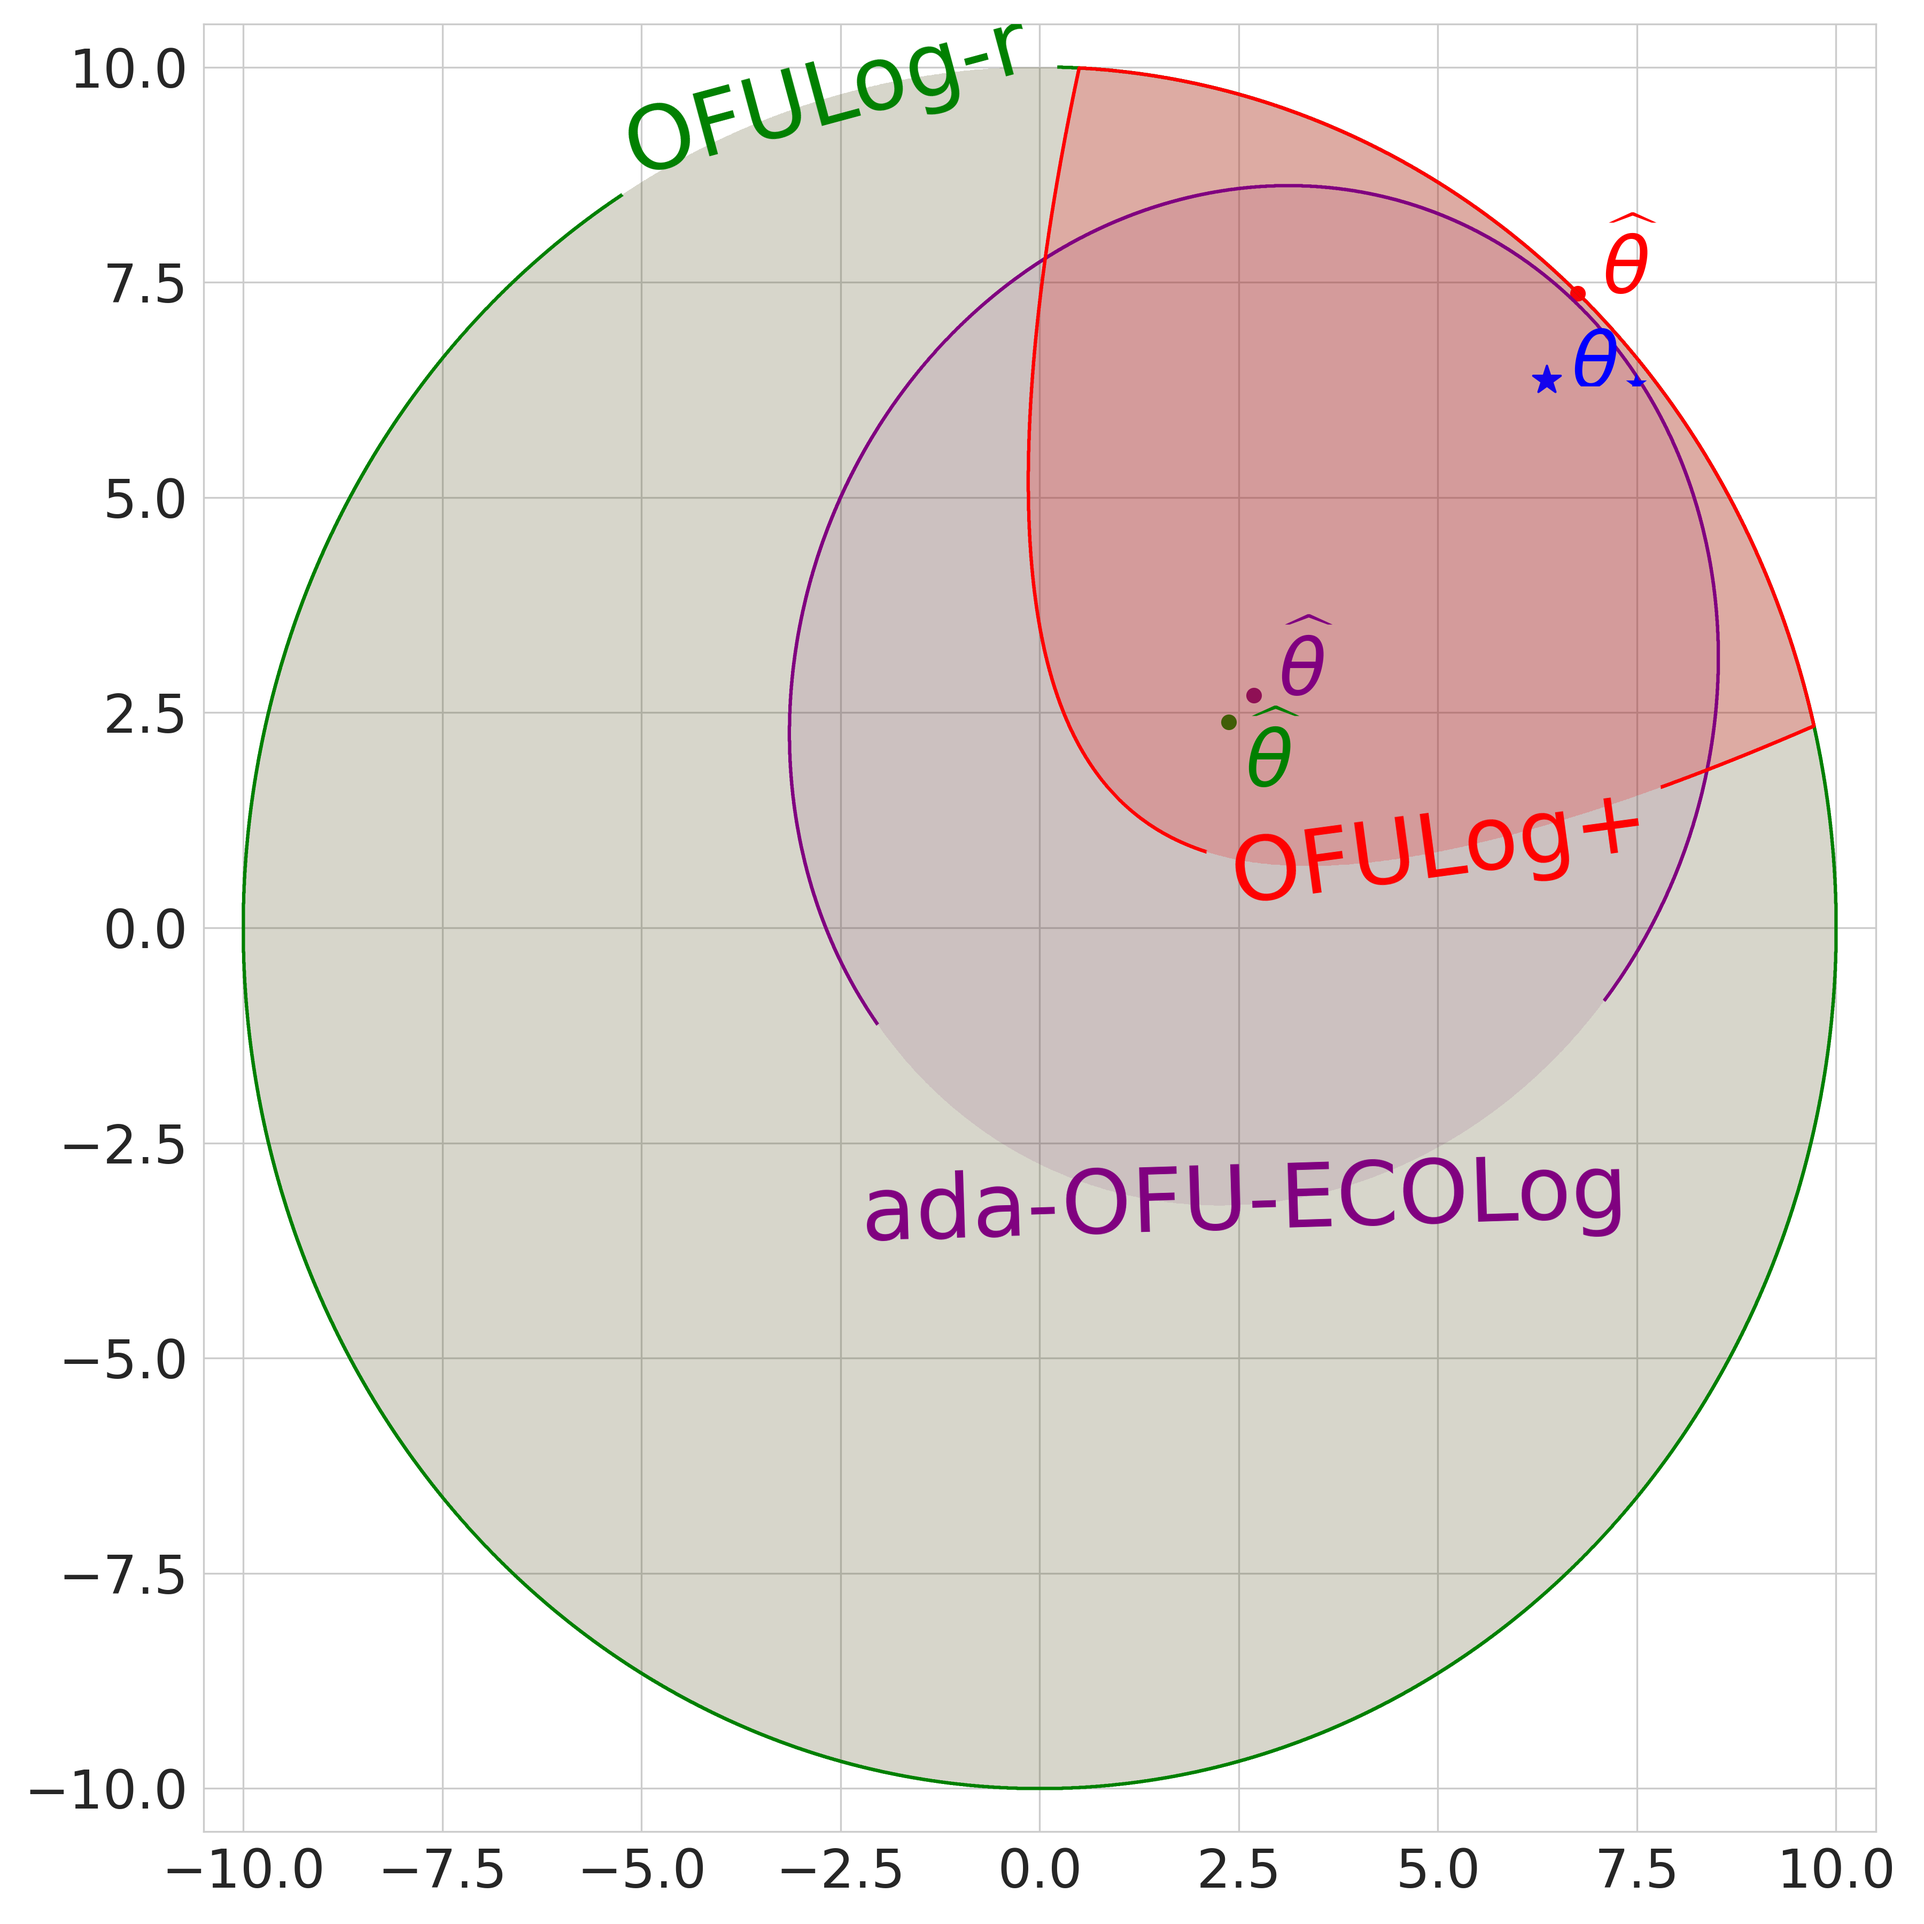
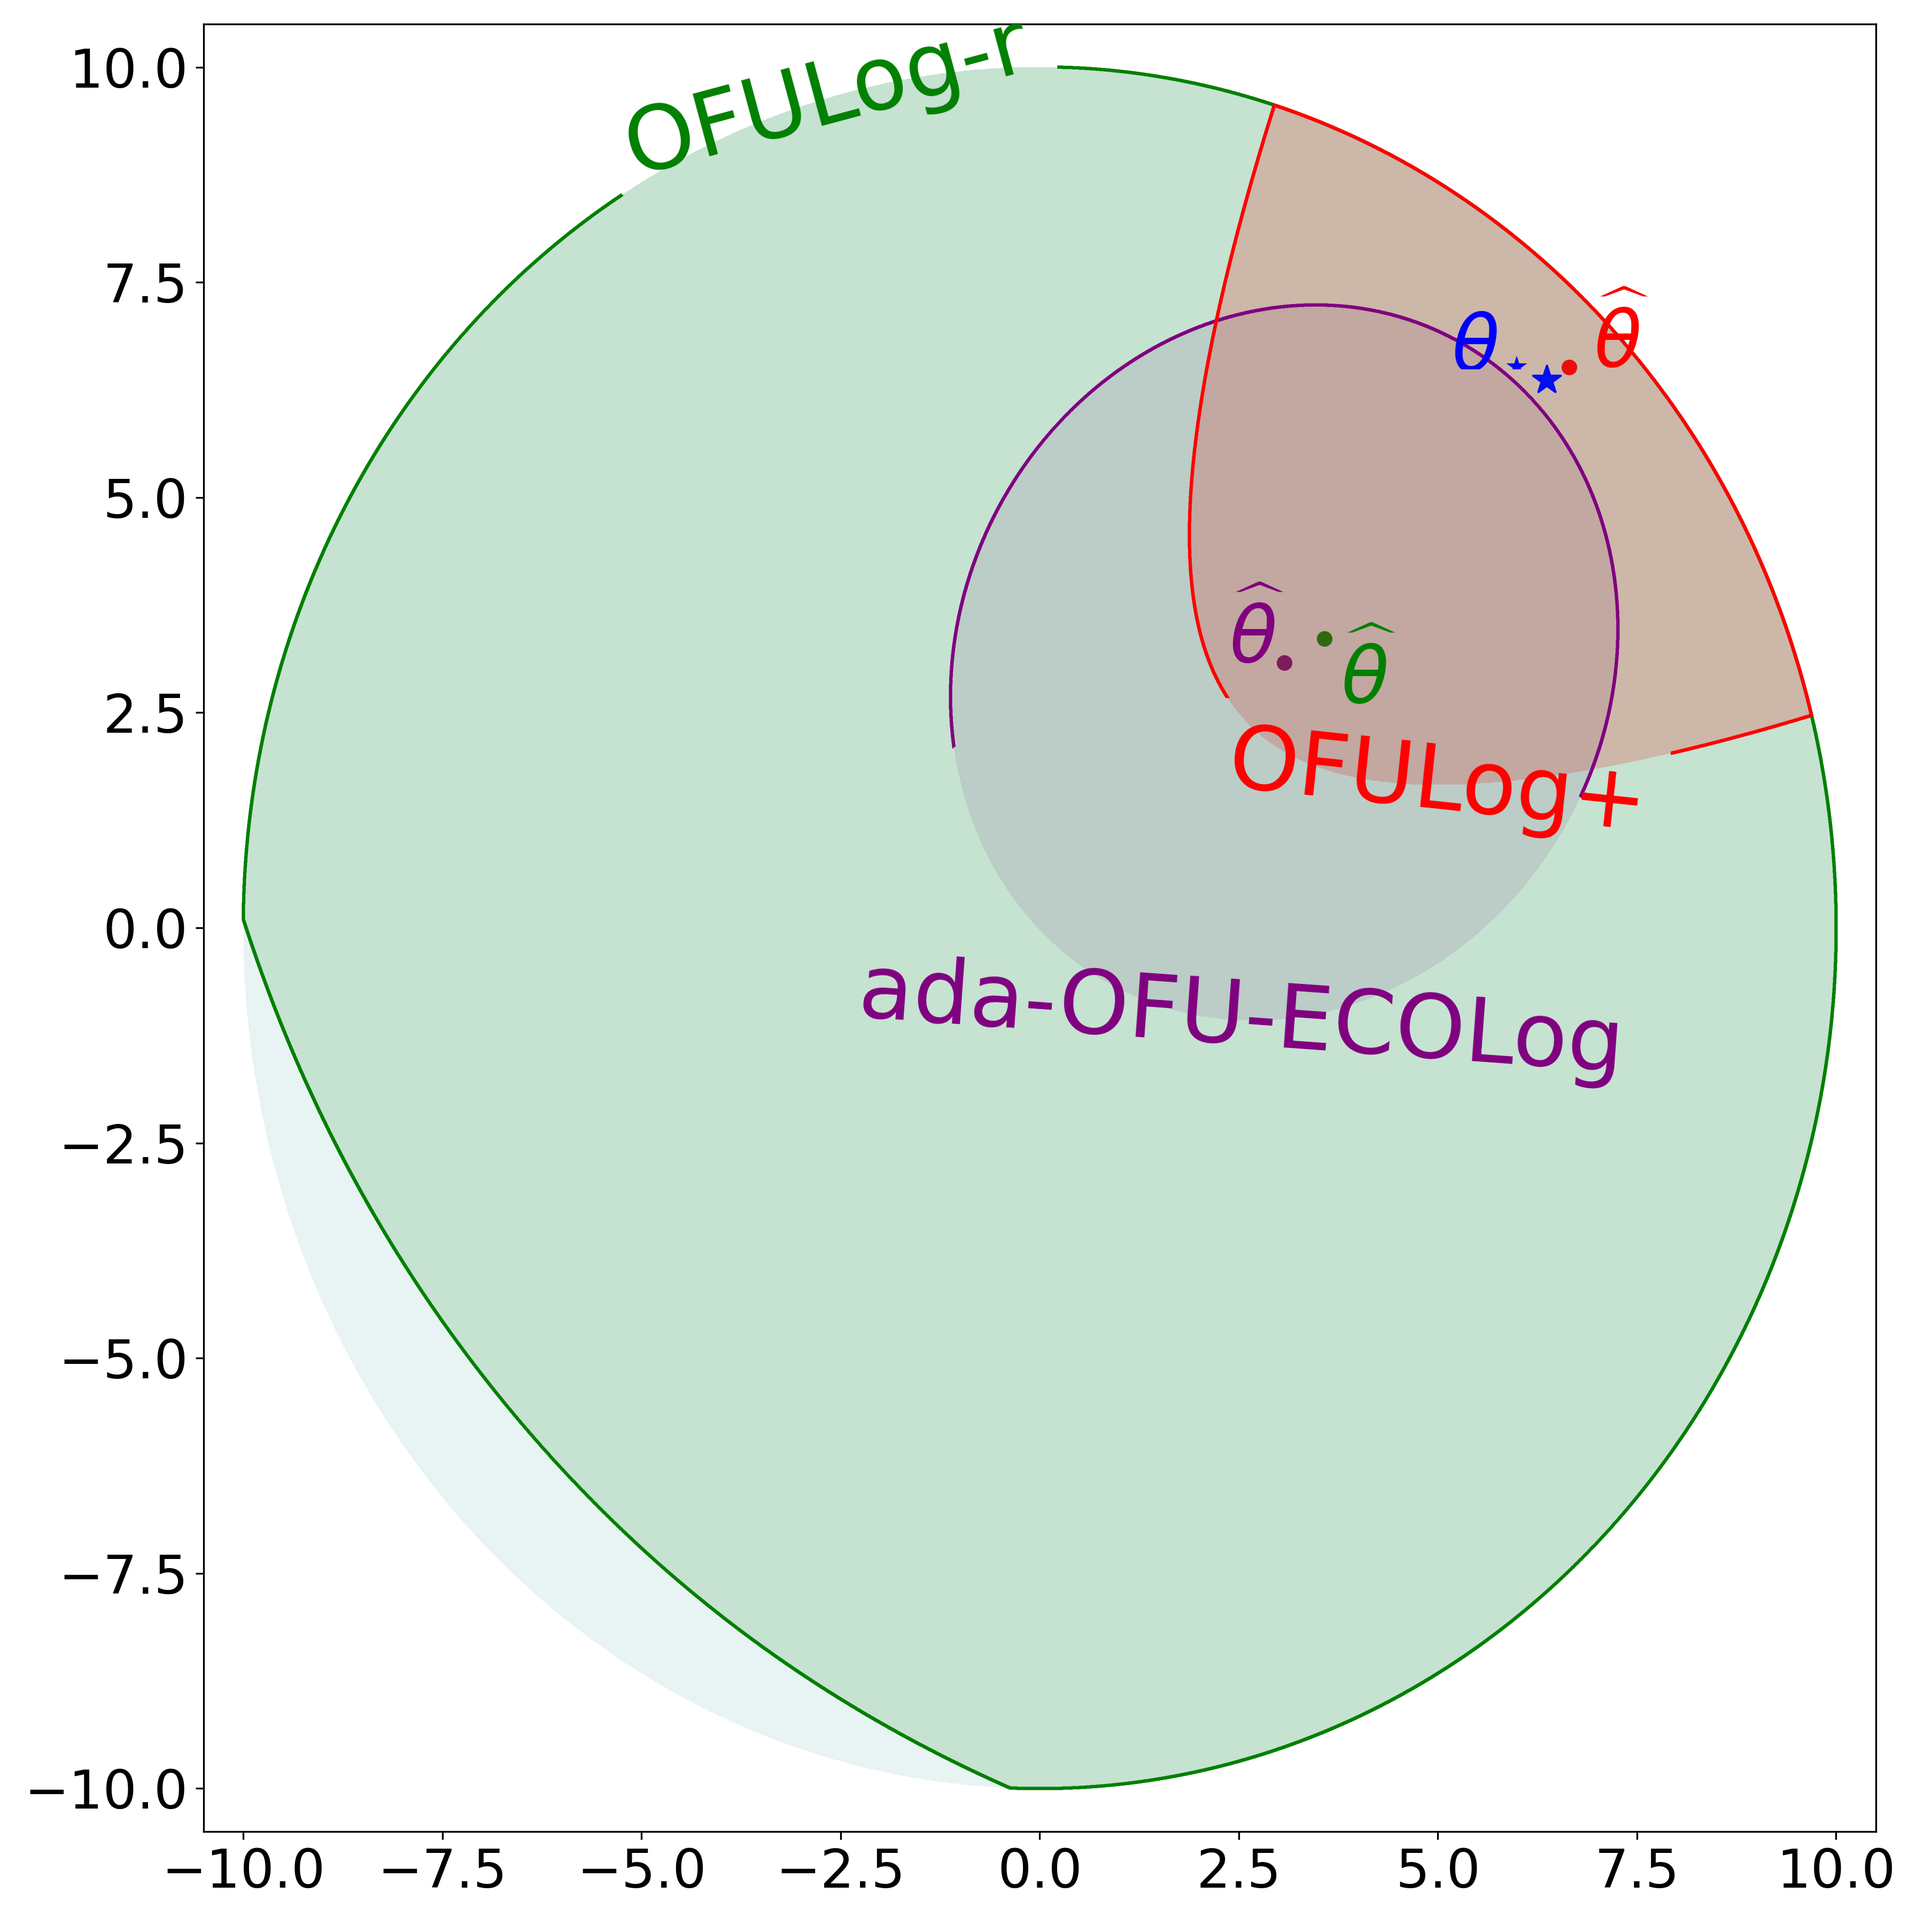
Update README

diff --git a/scripts/plot_confidence.py b/scripts/plot_confidence.py
@@ -1,21 +1,20 @@
 """
 By @nick-jhlee
 
-usage: plot_confidence.py [-h] [-d [D]] [-hz [HZ]] [-ast [AST]] [-pn [PN]]
+usage: plot_confidence.py [-h] [-ast [AST]] [-pn [PN]] [-Nconfidence [N]]
 
 Plot confidence sets for all algorithms
 
 optional arguments:
-  -h, --help  show this help message and exit
-  -ast [AST]  Dimension (default: tv_discrete)
-  -pn [PN]    Parameter norm (default: 10.0)
+  -h, --help          show this help message and exit
+  -ast [AST]          Dimension (default: tv_discrete)
+  -pn [PN]            Parameter norm (default: 10.0)
+  -Nconfidence [N]    Number of discretizations (per axis) for confidence set plot (default: 5000)
 """
 
 import argparse
 import matplotlib.pyplot as plt
 import numpy as np
-import os
-import json
 import seaborn as sns
 
 from logbexp.utils.utils import dsigmoid
@@ -31,12 +30,12 @@ args = parser.parse_args()
 param_norm = args.pn
 S = int(param_norm + 1)
 arm_set_type = args.ast
-N_confidence = args.Nconfidence
+N = args.Nconfidence
 
 
 # basic quantities
 theta_star = np.array([(S - 1) / np.sqrt(2), (S - 1) / np.sqrt(2)])
-interact_rng = np.linspace(-S - 0.5, S + 0.5, N_confidence)
+interact_rng = np.linspace(-S - 0.5, S + 0.5, N)
 x, y = np.meshgrid(interact_rng, interact_rng)
 
 fnames = ["adaECOLog.npz","OFULogr.npz", "OFULogPlus.npz"]
@@ -60,6 +59,7 @@ else:
 
 # plotting
 plt.figure(1, figsize=(12,12))
+# with sns.axes_style("whitegrid"):
 for i, fname in enumerate(fnames):
     fname = f"S={S}/{arm_set_type}/{fname}"
     with np.load(fname) as data:

diff --git a/scripts/plot_regret.py b/scripts/plot_regret.py
@@ -11,7 +11,7 @@ optional arguments:
   -d [D]      Dimension (default: 2)
   -hz [HZ]    Horizon length (default: 4000)
   -ast [AST]  Dimension (default: tv_discrete)
-  -pn [PN]    Parameter norm (default: 1.0)
+  -pn [PN]    Parameter norm (default: 10.0)
 """
 
 import argparse
@@ -28,7 +28,7 @@ parser = argparse.ArgumentParser(description='Plot regret curves, by default for
                                  formatter_class=argparse.ArgumentDefaultsHelpFormatter)
 parser.add_argument('-d', type=int, nargs='?', default=2, help='Dimension')
 parser.add_argument('-hz', type=int, nargs='?', default=4000, help='Horizon length)')
-parser.add_argument('-pn', type=float, nargs='?', default=1.0, help='Parameter norm')
+parser.add_argument('-pn', type=float, nargs='?', default=10.0, help='Parameter norm')
 parser.add_argument('-ast', type=str, nargs='?', default='tv_discrete', help='Arm set type. Must be either fixed_discrete, tv_discrete or ball')
 args = parser.parse_args()
 

diff --git a/README.md b/README.md
@@ -45,11 +45,11 @@ Experiments can be run for several Logistic Bandit (_i.e_ structured Bernoulli f
 Note that the Thompson Sampling type algorithm (TS) is only available for `GLOC`, `OL2M`, `GLM-UCB`, and `ada-OFU-ECOLog-TS`.
 For the first three algorithms, TS is automatically triggered for unit ball arm-set.
 
-## Single Experiment 
+## Single experiment 
 Single experiments (one algorithm for one environment) can be run thanks to `scripts/run_example.py`. The script instantiate the algorithm and environment indicated in the file `scripts/configs/example_config.py` and plots the regret.
 
-## Benchmark
-Benchmarks can be obtained thanks to `scripts/run_all.py`. This script runs experiments for any config file in `scripts/configs/generated_configs/` and stores the result in `scripts/logs/`. 
+## Reproducing the experiments
+The results in the paper can be obtained thanks to `scripts/run_all.py`. This script runs experiments for any config file in `scripts/configs/generated_configs/` and stores the result in `scripts/logs/`.
 
 
 ## Plot results
@@ -65,17 +65,29 @@ optional arguments:
   -h, --help  show this help message and exit
   -d [D]      Dimension (default: 2)
   -hz [HZ]    Horizon length (default: 4000)
-  -ast [AST]  Dimension (default: fixed_discrete)
-  -pn [PN]    Parameter norm (default: 1.0)
+  -ast [AST]  Dimension (default: tv_discrete)
+  -pn [PN]    Parameter norm (default: 10.0)
 ```
 
-Example output:
+Example output (S=10):
 
-<img src="./regret_fig.png" width="500" alt="">
+<!-- <img src="./regret_fig.png" width="500" alt=""> -->
 
 
 ### Confidence sets
-You can use `scripts/plot_confidence.ipynb` to plot the confidence sets for `OFULog-r`, `ada-OFU-ECOLog`, and `OFULog+`.
+You can use `scripts/plot_confidence.py` to plot confidence sets. This scripts plot confidence sets for all logs in `scripts/S=*`.
+
+```
+usage: plot_confidence.py [-h] [-ast [AST]] [-pn [PN]] [-Nconfidence [N]]
+
+Plot confidence sets for all algorithms
+
+optional arguments:
+  -h, --help          show this help message and exit
+  -ast [AST]          Dimension (default: tv_discrete)
+  -pn [PN]            Parameter norm (default: 10.0)
+  -Nconfidence [N]    Number of discretizations (per axis) for confidence set plot (default: 5000)
+```
 
 Example output (S=10):
 
